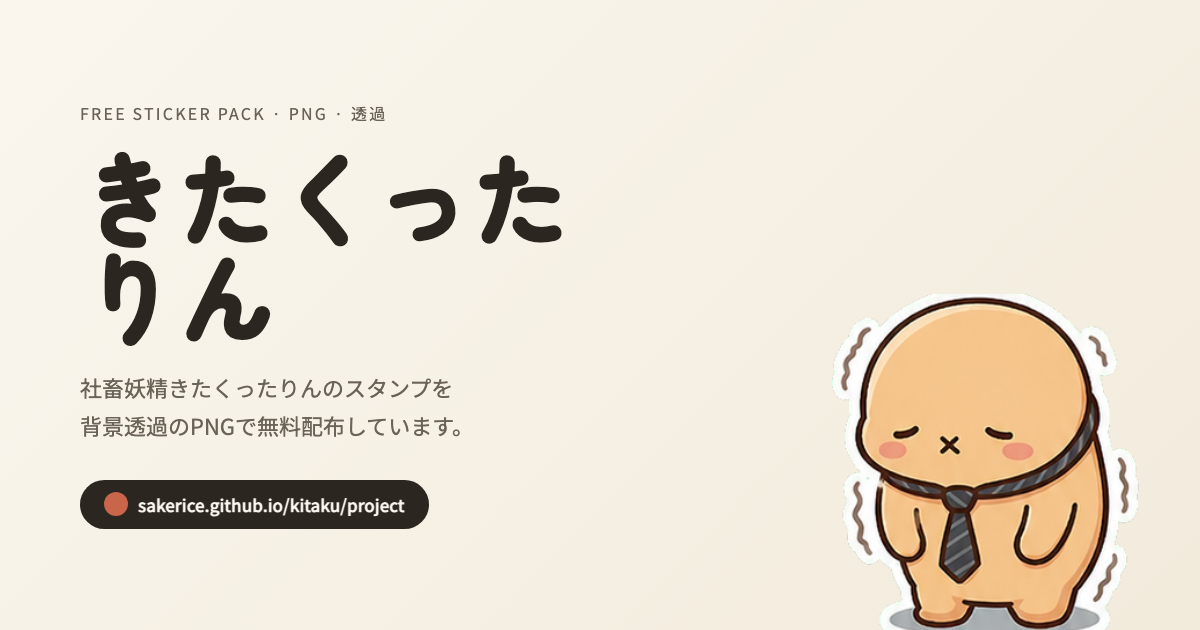
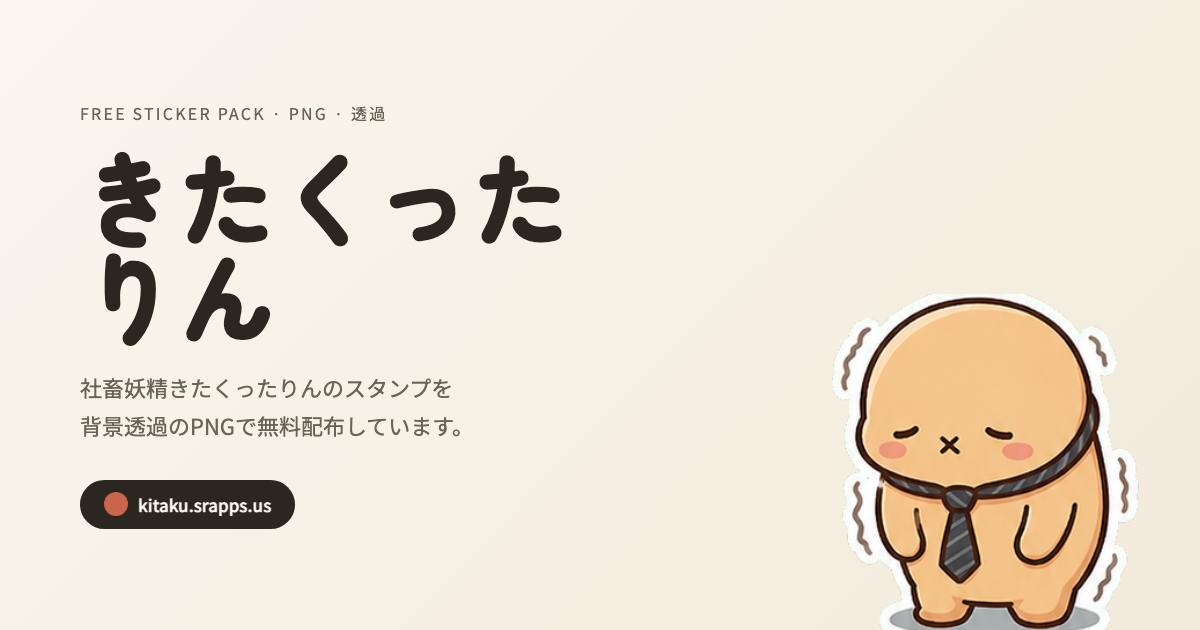
fix: OGP・READMEのURLをCloudflare正式ドメインに修正
GitHub PagesのURL（誤）→ https://kitaku.srapps.us/ （正）に統一。
OGP画像のバッジも再生成。

Changed region(s): [[0.0925, 0.754, 0.37, 0.8444]]

diff --git a/project/index.html b/project/index.html
@@ -11,15 +11,15 @@
 <meta property="og:site_name" content="社畜妖精きたくったりん スタンプ" />
 <meta property="og:title" content="社畜妖精きたくったりん — スタンプ無料配布" />
 <meta property="og:description" content="社畜妖精きたくったりんのスタンプを背景透過のPNGで無料配布しています。個人利用OK。" />
-<meta property="og:url" content="https://sakerice.github.io/kitaku/project/" />
-<meta property="og:image" content="https://sakerice.github.io/kitaku/project/ogp.png" />
+<meta property="og:url" content="https://kitaku.srapps.us/" />
+<meta property="og:image" content="https://kitaku.srapps.us/ogp.png" />
 <meta property="og:image:width" content="1200" />
 <meta property="og:image:height" content="630" />
 <!-- Twitter Card -->
 <meta name="twitter:card" content="summary_large_image" />
 <meta name="twitter:title" content="社畜妖精きたくったりん — スタンプ無料配布" />
 <meta name="twitter:description" content="社畜妖精きたくったりんのスタンプを背景透過のPNGで無料配布しています。個人利用OK。" />
-<meta name="twitter:image" content="https://sakerice.github.io/kitaku/project/ogp.png" />
+<meta name="twitter:image" content="https://kitaku.srapps.us/ogp.png" />
 <link rel="preconnect" href="https://fonts.googleapis.com" />
 <link rel="preconnect" href="https://fonts.gstatic.com" crossorigin />
 <link href="https://fonts.googleapis.com/css2?family=Zen+Maru+Gothic:wght@500;700;900&family=Noto+Sans+JP:wght@400;500;700&family=JetBrains+Mono:wght@400;600&display=swap" rel="stylesheet" />

diff --git a/README.md b/README.md
@@ -3,7 +3,7 @@
 社畜妖精きたくったりんのスタンプを配布する静的サイト。  
 透過PNG形式のスタンプをブラウザから直接ダウンロードできます。
 
-**公開URL:** https://sakerice.github.io/kitaku/project/
+**公開URL:** https://kitaku.srapps.us/
 
 ---
 
